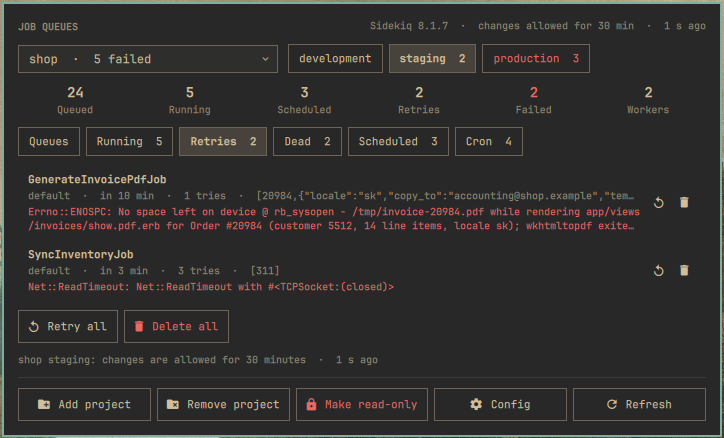
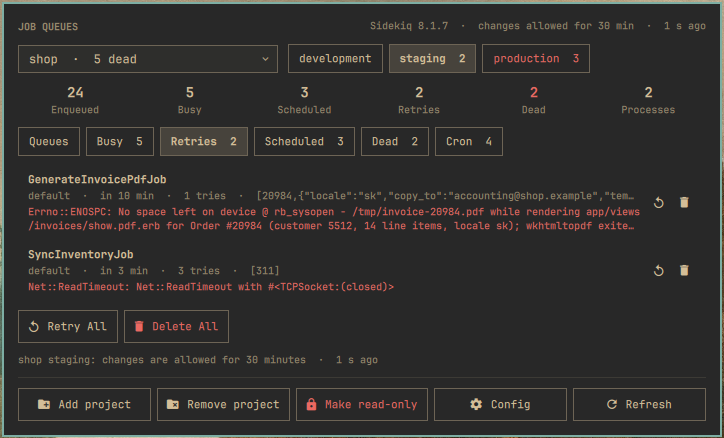
Call things what the gems call them; say all the plugin needs
Tabs, numbers and actions carry the names of each gem's own interface:
Sidekiq's web interface and sidekiq-cron (Busy, Dead, Retry Now, Add to
queue, Enqueue Now), and Mission Control for Solid Queue (In progress,
Recurring tasks, Discard, Run now). The backends send the names along.

The README's Requirements now list everything that has to hold for an
application to show up: the gems, Kamal and its labels, SSH without a
prompt, the job role, compose for development.

Screenshots and the preview are retaken with the new names.

diff --git a/Panel.qml b/Panel.qml
@@ -55,7 +55,7 @@ Panel {
     var names = (p.envs || []).map(function(e) { return e.name })
     return {
       value: p.name,
-      label: p.name + (failed > 0 ? "  ·  " + failed + " failed" : short ? "  ·  needs details" : lost ? "  ·  unreachable" : ""),
+      label: p.name + (failed > 0 ? "  ·  " + failed + " " + root.failedWord(p) : short ? "  ·  needs details" : lost ? "  ·  unreachable" : ""),
       description: kinds.concat(names.join(", ")).join("  ·  ")
     }
   })
@@ -143,12 +143,43 @@ Panel {
     return n
   }
 
+  // ---------- Words ----------
+  // Each backend names its things as its own interface does (Sidekiq's web
+  // interface, Mission Control for Solid Queue) and sends the names along;
+  // these stand in until it has answered.
+  readonly property var plainWords: ({
+    stats: { enqueued: "Enqueued", busy: "Busy", scheduled: "Scheduled", retry: "Retries", failed: "Failed", processes: "Processes" },
+    queues: "Queues", cron: "Cron", failed: "failed", size: "enqueued", latency: "latency",
+    retry: "Retry", run: "Run now", "delete": "Delete", retry_all: "Retry all", delete_all: "Delete all",
+    clear: "Clear", pause: "Pause", resume: "Resume", cron_run: "Run now", enable: "Enable", disable: "Disable"
+  })
+  readonly property var words: {
+    var given = info && info.words ? info.words : ({})
+    var out = {}
+    for (var k in plainWords) out[k] = typeof given[k] === typeof plainWords[k] && given[k] ? given[k] : plainWords[k]
+    return out
+  }
+  // The numbers at the top: only what the backend counts (Solid Queue has
+  // no retries of its own), under the backend's names.
+  readonly property var statModel: ["enqueued", "busy", "scheduled", "retry", "failed", "processes"].filter(function(key) {
+    return root.stats[key] !== null && root.stats[key] !== undefined
+  }).map(function(key) { return { key: key, label: String(root.words.stats[key] || root.plainWords.stats[key]) } })
+  // What a project's failed jobs are called: "dead" in Sidekiq, "failed" in Solid Queue.
+  function failedWord(p) {
+    var list = p ? p.envs || [] : []
+    for (var i = 0; i < list.length; i++) {
+      var data = list[i].data || ({})
+      for (var b in data) if (data[b] && data[b].words && typeof data[b].words.failed === "string") return data[b].words.failed
+    }
+    return plainWords.failed
+  }
+
   // ---------- Tabs ----------
   readonly property var tabs: {
-    var out = [{ key: "queues", label: "Queues", count: -1 }]
+    var out = [{ key: "queues", label: words.queues, count: -1 }]
     for (var i = 0; i < lists.length; i++)
       out.push({ key: "list:" + lists[i].key, label: lists[i].label, count: Number(lists[i].total || 0) })
-    out.push({ key: "cron", label: "Cron", count: info && info.cron ? info.cron.length : 0 })
+    out.push({ key: "cron", label: words.cron, count: info && info.cron ? info.cron.length : 0 })
     return out
   }
   property string tab: "queues"
@@ -194,15 +225,15 @@ Panel {
         var q = queues[i]
         var qa = []
         if (has(q.actions, "pause")) qa.push({
-          icon: q.paused ? "\u{f040a}" : "\u{f03e4}", tip: q.paused ? "Resume" : "Pause", danger: false,
+          icon: q.paused ? "\u{f040a}" : "\u{f03e4}", tip: q.paused ? words.resume : words.pause, danger: false,
           request: { op: "pause_queue", queue: q.name }, ask: "" })
         if (has(q.actions, "clear")) qa.push({
-          icon: "\u{f00e2}", tip: "Remove every job", danger: true,
+          icon: "\u{f00e2}", tip: words.clear, danger: true,
           request: { op: "clear_queue", queue: q.name },
-          ask: "Remove all " + q.size + " jobs waiting in " + q.name + "?" })
+          ask: words.clear + " " + q.name + " with its " + q.size + " job" + (q.size === 1 ? "" : "s") + "?" })
         out.push({
           title: q.name + (q.paused ? "  ·  paused" : ""),
-          sub: q.size + " waiting" + (q.latency !== null && q.size > 0 ? "  ·  oldest " + seconds(q.latency) : ""),
+          sub: q.size + " " + words.size + (q.latency !== null && q.size > 0 ? "  ·  " + words.latency + " " + seconds(q.latency) : ""),
           error: "", dim: false, actions: qa })
       }
       var procs = info.processes || []
@@ -222,10 +253,10 @@ Panel {
         var c = cron[i]
         var ca = []
         if (has(c.actions, "run")) ca.push({
-          icon: "\u{f040a}", tip: "Run now", danger: false,
+          icon: "\u{f040a}", tip: words.cron_run, danger: false,
           request: { op: "cron_run", name: c.name }, ask: "" })
         if (has(c.actions, "toggle")) ca.push({
-          icon: c.enabled ? "\u{f03e4}" : "\u{f0459}", tip: c.enabled ? "Disable" : "Enable", danger: false,
+          icon: c.enabled ? "\u{f03e4}" : "\u{f0459}", tip: c.enabled ? words.disable : words.enable, danger: false,
           request: { op: "cron_toggle", name: c.name }, ask: "" })
         out.push({
           title: c.name + (c.enabled ? "" : "  ·  disabled"),
@@ -240,11 +271,11 @@ Panel {
         var j = items[i]
         var ja = []
         if (has(currentList.actions, "retry")) ja.push({
-          icon: "\u{f0459}", tip: key === "scheduled" ? "Run now" : "Retry", danger: false,
+          icon: "\u{f0459}", tip: key === "scheduled" ? words.run : words.retry, danger: false,
           request: { op: "retry", list: key, job: j.id }, ask: "" })
         if (has(currentList.actions, "delete")) ja.push({
-          icon: "\u{f01b4}", tip: "Delete", danger: true,
-          request: { op: "delete", list: key, job: j.id }, ask: "Delete " + j.cls + "?" })
+          icon: "\u{f01b4}", tip: words.delete, danger: true,
+          request: { op: "delete", list: key, job: j.id }, ask: words.delete + " " + j.cls + "?" })
         var meta = [j.queue]
         if (j.at) meta.push(timeAgo(j.at))
         if (j.tries) meta.push(j.tries + " tries")
@@ -264,13 +295,13 @@ Panel {
     var out = []
     if (!writable || !currentList || !Number(currentList.total)) return out
     var n = currentList.total
-    var what = n + " " + String(currentList.label).toLowerCase() + " job" + (n === 1 ? "" : "s")
+    var what = n + " job" + (n === 1 ? "" : "s") + " in " + currentList.label
     if (has(currentList.actions, "retry_all")) out.push({
-      key: "retry_all", label: "Retry all", icon: "\u{f0459}",
-      request: { op: "retry_all", list: currentList.key }, ask: "Retry all " + what + "?" })
+      key: "retry_all", label: words.retry_all, icon: "\u{f0459}", confirm: words.retry_all,
+      request: { op: "retry_all", list: currentList.key }, ask: words.retry_all + ": " + what + "?" })
     if (has(currentList.actions, "delete_all")) out.push({
-      key: "delete_all", label: "Delete all", icon: "\u{f01b4}",
-      request: { op: "delete_all", list: currentList.key }, ask: "Delete all " + what + "?" })
+      key: "delete_all", label: words.delete_all, icon: "\u{f01b4}", danger: true,
+      request: { op: "delete_all", list: currentList.key }, ask: words.delete_all + ": " + what + "?" })
     return out
   }
 
@@ -341,7 +372,7 @@ Panel {
     var question = action.ask || (target.production ? action.tip + "?" : "")
     if (question === "") { service.act(req); return }
     pending = { request: req, ask: question + "\n" + project.name + " " + target.name,
-                confirm: action.danger ? "Delete" : "Yes" }
+                confirm: action.danger ? (action.tip || action.label || words.delete) : "Yes" }
     confirm.selectedIndex = 0
   }
 
@@ -548,7 +579,7 @@ Panel {
         var p = root.projects[i]
         var failed = root.failedInProject(p, "")
         var lost = (p.envs || []).filter(root.down).map(function(e) { return e.name })
-        if (failed > 0) parts.push(p.name + " " + failed + " failed")
+        if (failed > 0) parts.push(p.name + " " + failed + " " + root.failedWord(p))
         if (lost.length) parts.push(p.name + " " + lost.join(", ") + " unreachable")
       }
       return "Job Queues · " + (parts.length ? parts.join(" · ") : "click to look")
@@ -895,17 +926,10 @@ Panel {
           width: parent.width
 
           Repeater {
-            model: [
-              { label: "Queued", key: "enqueued" },
-              { label: "Running", key: "busy" },
-              { label: "Scheduled", key: "scheduled" },
-              { label: "Retries", key: "retry" },
-              { label: "Failed", key: "failed" },
-              { label: "Workers", key: "processes" }
-            ]
+            model: root.statModel
             Stat {
               required property var modelData
-              width: statRow.width / 6
+              width: statRow.width / Math.max(1, root.statModel.length)
               label: modelData.label
               value: root.stats[modelData.key]
               alarm: (modelData.key === "failed" && Number(value) > 0) || (modelData.key === "processes" && Number(value) === 0)
@@ -1276,7 +1300,7 @@ Panel {
               width: parent.width
               textFormat: Text.PlainText
               wrapMode: Text.WordWrap
-              text: "Retry, delete, pause and run-now will work from this panel for half an hour, "
+              text: "Jobs and queues can be changed from this panel for half an hour, "
                   + "or until you switch it back."
               color: root.dimForeground
               font.family: root.ff

diff --git a/remote/solid_queue.rb b/remote/solid_queue.rb
@@ -4,6 +4,16 @@ module JobQ
   module SolidQueueBackend
     module_function
 
+    # Solid Queue has no interface of its own; what things are called here is
+    # what Mission Control - Jobs, Rails' interface for it, calls them.
+    WORDS = {
+      stats: { enqueued: "Pending", busy: "In progress", scheduled: "Scheduled", retry: "Retries",
+               failed: "Failed", processes: "Processes" },
+      queues: "Queues", cron: "Recurring tasks", failed: "failed", size: "pending", latency: "latency",
+      retry: "Retry", run: "Run now", delete: "Discard", retry_all: "Retry all", delete_all: "Discard all",
+      clear: "Clear", pause: "Pause", resume: "Resume", cron_run: "Run now", enable: "Enable", disable: "Disable"
+    }.freeze
+
     def present?
       !defined?(SolidQueue).nil?
     end
@@ -87,7 +97,7 @@ module JobQ
       when "delete"
         j = job(req)
         j.discard
-        "Deleted #{j.class_name}"
+        "Discarded #{j.class_name}"
       when "retry_all"
         raise ArgumentError, "unknown list" unless req["list"] == "failed"
         n = SolidQueue::FailedExecution.count
@@ -101,12 +111,12 @@ module JobQ
                 end
         n = scope.count
         scope.discard_all_in_batches
-        "Deleted #{n} jobs"
+        "Discarded #{n} jobs"
       when "clear_queue"
         q = SolidQueue::Queue.find_by_name(req["queue"].to_s)
         n = q.size
         q.clear
-        "Removed #{n} jobs from #{q.name}"
+        "Cleared #{q.name}: #{n} jobs discarded"
       when "pause_queue"
         q = SolidQueue::Queue.find_by_name(req["queue"].to_s)
         if q.paused?
@@ -194,14 +204,15 @@ module JobQ
             concurrency: meta["thread_pool_size"], queues: meta["queues"].to_s, beat: JobQ.epoch(p.last_heartbeat_at) }
         },
         lists: [
-          { key: "busy", label: "Running", total: counts[:busy], items: running, actions: [] },
+          { key: "busy", label: "In progress", total: counts[:busy], items: running, actions: [] },
           { key: "failed", label: "Failed", total: counts[:failed], items: failed,
             actions: %w[retry delete retry_all delete_all] },
           { key: "scheduled", label: "Scheduled", total: counts[:scheduled], items: scheduled,
             actions: %w[retry delete delete_all] },
           { key: "blocked", label: "Blocked", total: counts[:blocked], items: blocked, actions: %w[delete] }
         ],
-        cron: cron_rows
+        cron: cron_rows,
+        words: WORDS
       }
     end
   end

diff --git a/remote/sidekiq.rb b/remote/sidekiq.rb
@@ -4,6 +4,16 @@ module JobQ
   module SidekiqBackend
     module_function
 
+    # What things are called here is what Sidekiq's own web interface (and
+    # sidekiq-cron's) calls them.
+    WORDS = {
+      stats: { enqueued: "Enqueued", busy: "Busy", scheduled: "Scheduled", retry: "Retries",
+               failed: "Dead", processes: "Processes" },
+      queues: "Queues", cron: "Cron", failed: "dead", size: "enqueued", latency: "latency",
+      retry: "Retry Now", run: "Add to queue", delete: "Delete", retry_all: "Retry All", delete_all: "Delete All",
+      clear: "Delete", pause: "Pause", resume: "Unpause", cron_run: "Enqueue Now", enable: "Enable", disable: "Disable"
+    }.freeze
+
     def present?
       !defined?(Sidekiq).nil?
     end
@@ -70,11 +80,11 @@ module JobQ
         q = Sidekiq::Queue.new(req["queue"].to_s)
         n = q.size
         q.clear
-        "Removed #{n} jobs from #{q.name}"
+        "Deleted #{q.name} with its #{n} jobs"
       when "cron_run"
         job = cron_job(req["name"])
         job.respond_to?(:enqueue!) ? job.enqueue! : job.enque!
-        "Queued #{job.name}"
+        "Enqueued #{job.name}"
       when "cron_toggle"
         job = cron_job(req["name"])
         if job.status == "enabled"
@@ -170,11 +180,12 @@ module JobQ
             beat: JobQ.epoch(p["beat"]) }
         },
         lists: [
-          { key: "busy", label: "Running", total: stats.workers_size, items: busy, actions: [] },
+          { key: "busy", label: "Busy", total: stats.workers_size, items: busy, actions: [] },
           list("retry", "Retries", false, %w[retry delete retry_all delete_all]),
-          list("dead", "Dead", true, %w[retry delete retry_all delete_all]),
-          list("scheduled", "Scheduled", false, %w[retry delete delete_all])
+          list("scheduled", "Scheduled", false, %w[retry delete delete_all]),
+          list("dead", "Dead", true, %w[retry delete retry_all delete_all])
         ],
+        words: WORDS,
         cron: cron_rows
       }
     end

diff --git a/tests/remote_test.rb b/tests/remote_test.rb
@@ -188,6 +188,23 @@ class CoreTest < Minitest::Test
   end
 end
 
+class WordsTest < Minitest::Test
+  def test_every_backend_names_the_same_things
+    words = REAL_BACKENDS.map { |name| JobQ::BACKENDS.fetch(name)::WORDS }
+    assert_equal words[0].keys.sort, words[1].keys.sort
+    assert_equal words[0][:stats].keys, words[1][:stats].keys
+    words.each { |w| w.each_value { |v| assert(v.is_a?(Hash) ? v.values.all?(String) : v.is_a?(String)) } }
+  end
+
+  def test_they_are_named_as_their_own_interfaces_name_them
+    sidekiq, solid = REAL_BACKENDS.map { |name| JobQ::BACKENDS.fetch(name)::WORDS }
+    assert_equal ["Retry Now", "Add to queue", "Delete All", "Enqueue Now", "Dead"],
+                 [sidekiq[:retry], sidekiq[:run], sidekiq[:delete_all], sidekiq[:cron_run], sidekiq[:stats][:failed]]
+    assert_equal ["Retry", "Run now", "Discard all", "Recurring tasks", "In progress"],
+                 [solid[:retry], solid[:run], solid[:delete_all], solid[:cron], solid[:stats][:busy]]
+  end
+end
+
 class ArgumentsTest < Minitest::Test
   def plain(value) = JobQ::SolidQueueBackend.plain(value)
 

diff --git a/README.md b/README.md
@@ -46,9 +46,14 @@ delete that file if you do not want to keep it.
 - **Add project** lists a project (you choose its directory), **Remove
   project** takes the chosen one off the list; neither touches the project
   itself.
-- Then the numbers and the tabs: **Queues** (and worker processes),
-  **Running**, **Retries**, **Dead** / **Failed**, **Scheduled**, **Blocked**
-  and **Cron** (sidekiq-cron or Solid Queue recurring tasks).
+- Then the numbers and the tabs, named as each gem's own interface names
+  them. For Sidekiq, as in its web interface: **Queues** (with the
+  processes), **Busy**, **Retries**, **Scheduled**, **Dead** and **Cron**
+  (sidekiq-cron), with **Retry Now**, **Add to queue**, **Delete**, **Retry
+  All**, **Delete All** and **Enqueue Now**. For Solid Queue, as in Mission
+  Control: **Queues**, **In progress**, **Failed**, **Scheduled**, **Blocked**
+  and **Recurring tasks**, with **Retry**, **Discard**, **Run now**, **Retry
+  all**, **Discard all**, **Pause** and **Resume**.
 - A job's arguments and error are cut short in the list. Click the job to
   unfold it and read them whole; **Copy error** under them puts the error on
   the clipboard.
@@ -57,13 +62,15 @@ delete that file if you do not want to keep it.
   changes** button at the bottom allows them for the environment you are
   looking at, for half an hour: it asks you to type the environment's name
   first. It then reads **Make read-only**, and a click does that at once; the
-  top right corner says which of the two the environment is in. Where changes are allowed, each row has its actions at the right
-  edge and **Retry all** / **Delete all** appear under a list that allows
-  them. Anything that throws jobs away asks first, and in production every
-  change does.
+  top right corner says which of the two the environment is in. Where
+  changes are allowed, each row has its actions at the right edge and the
+  ones for a whole list appear under it. Anything that throws jobs away asks
+  first, and in production every change does.
 - Keyboard: up/down move, left/right change tab, Enter retries or runs, `x`
-  deletes, `o` unfolds a job, `y` copies its error, `p` opens the project list, `a` adds a project, `e` next environment, `r` refreshes,
-  `c` opens the config, Esc closes.
+  deletes or discards, `o` unfolds a job, `y` copies its error, `p` opens the
+  project list, `a` adds a project, `e` next environment, `r` refreshes, `c`
+  opens the config, Esc closes.
+
 
 ## Screenshots
 
@@ -233,8 +240,57 @@ in the feed; a script that is not listed there is never sent.
 
 ## Requirements
 
-`ssh`, and Python with PyYAML and PyGObject (`python-yaml`, `python-gobject`),
-all part of a stock Omarchy. On the servers nothing but what Kamal needs.
+What has to be true for the plugin to show an application's jobs. Where one
+of these does not hold, the environment says so in the panel instead of
+showing anything.
+
+**The application**
+
+- A Rails application whose jobs run on **Sidekiq** (7 and 8 were tried, with
+  or without sidekiq-cron) or **Solid Queue** (1.7 was tried). Resque, Good
+  Job, Delayed Job and the like are not supported.
+- The gem is in its `Gemfile.lock`; that is how the backend is known.
+- `bin/rails` works in the place the jobs run in, and there is a `sh` there.
+
+**Production and staging**
+
+- Deployed with **Kamal**: `config/deploy.yml`, with `config/deploy.<name>.yml`
+  per destination if there are several. The host, SSH user and port, the
+  service and the role are read from there. A deployment without Kamal works
+  only when you describe the environment by hand (see Projects): a release
+  directory on a server, or any command that reads Ruby on stdin.
+- The container that runs the jobs is running, and Docker on the server
+  labels it as Kamal does (`service`, `role`, `destination`). The role taken
+  is the one whose command runs the jobs, else one named `job`, `jobs`,
+  `worker`, `workers`, `sidekiq` or `solid_queue`, else `web`.
+- You can `ssh` to the server from this machine **without being asked
+  anything**: the key is in an agent or has no passphrase, and the host is in
+  `known_hosts`. Passwords are not supported. A jump host (`ssh.proxy`) and
+  keys (`ssh.keys`) from the Kamal config are used; `ssh.proxy_command` and
+  `ssh.key_data` are not, but your own `~/.ssh/config` applies as always.
+- The SSH user may run `docker`, as Kamal itself needs.
+- For Sidekiq, Redis is reachable from the job container, which it is where
+  Sidekiq runs. Where the container has `REDIS_URL`, a look takes about a
+  second; where Redis is set up in an initializer, the application is booted
+  for it, which takes as long as `bin/rails runner` does.
+- For Solid Queue, the application is always booted, and its queue database
+  has to be reachable from the job container.
+
+**Development**
+
+- The project has a compose file (`compose.yaml` and its other spellings)
+  with a service that is built from the project, and that service is running.
+  Without one there is no development environment unless you give it a
+  command in the config.
+
+**This machine**
+
+- Omarchy with the Quickshell-based shell.
+- `ssh`, and Python with PyYAML and PyGObject (`python-yaml`,
+  `python-gobject`), all part of a stock Omarchy. `docker` only for
+  development environments.
+
+Nothing is installed on the servers and nothing is added to the application.
 
 ## Tests
 
